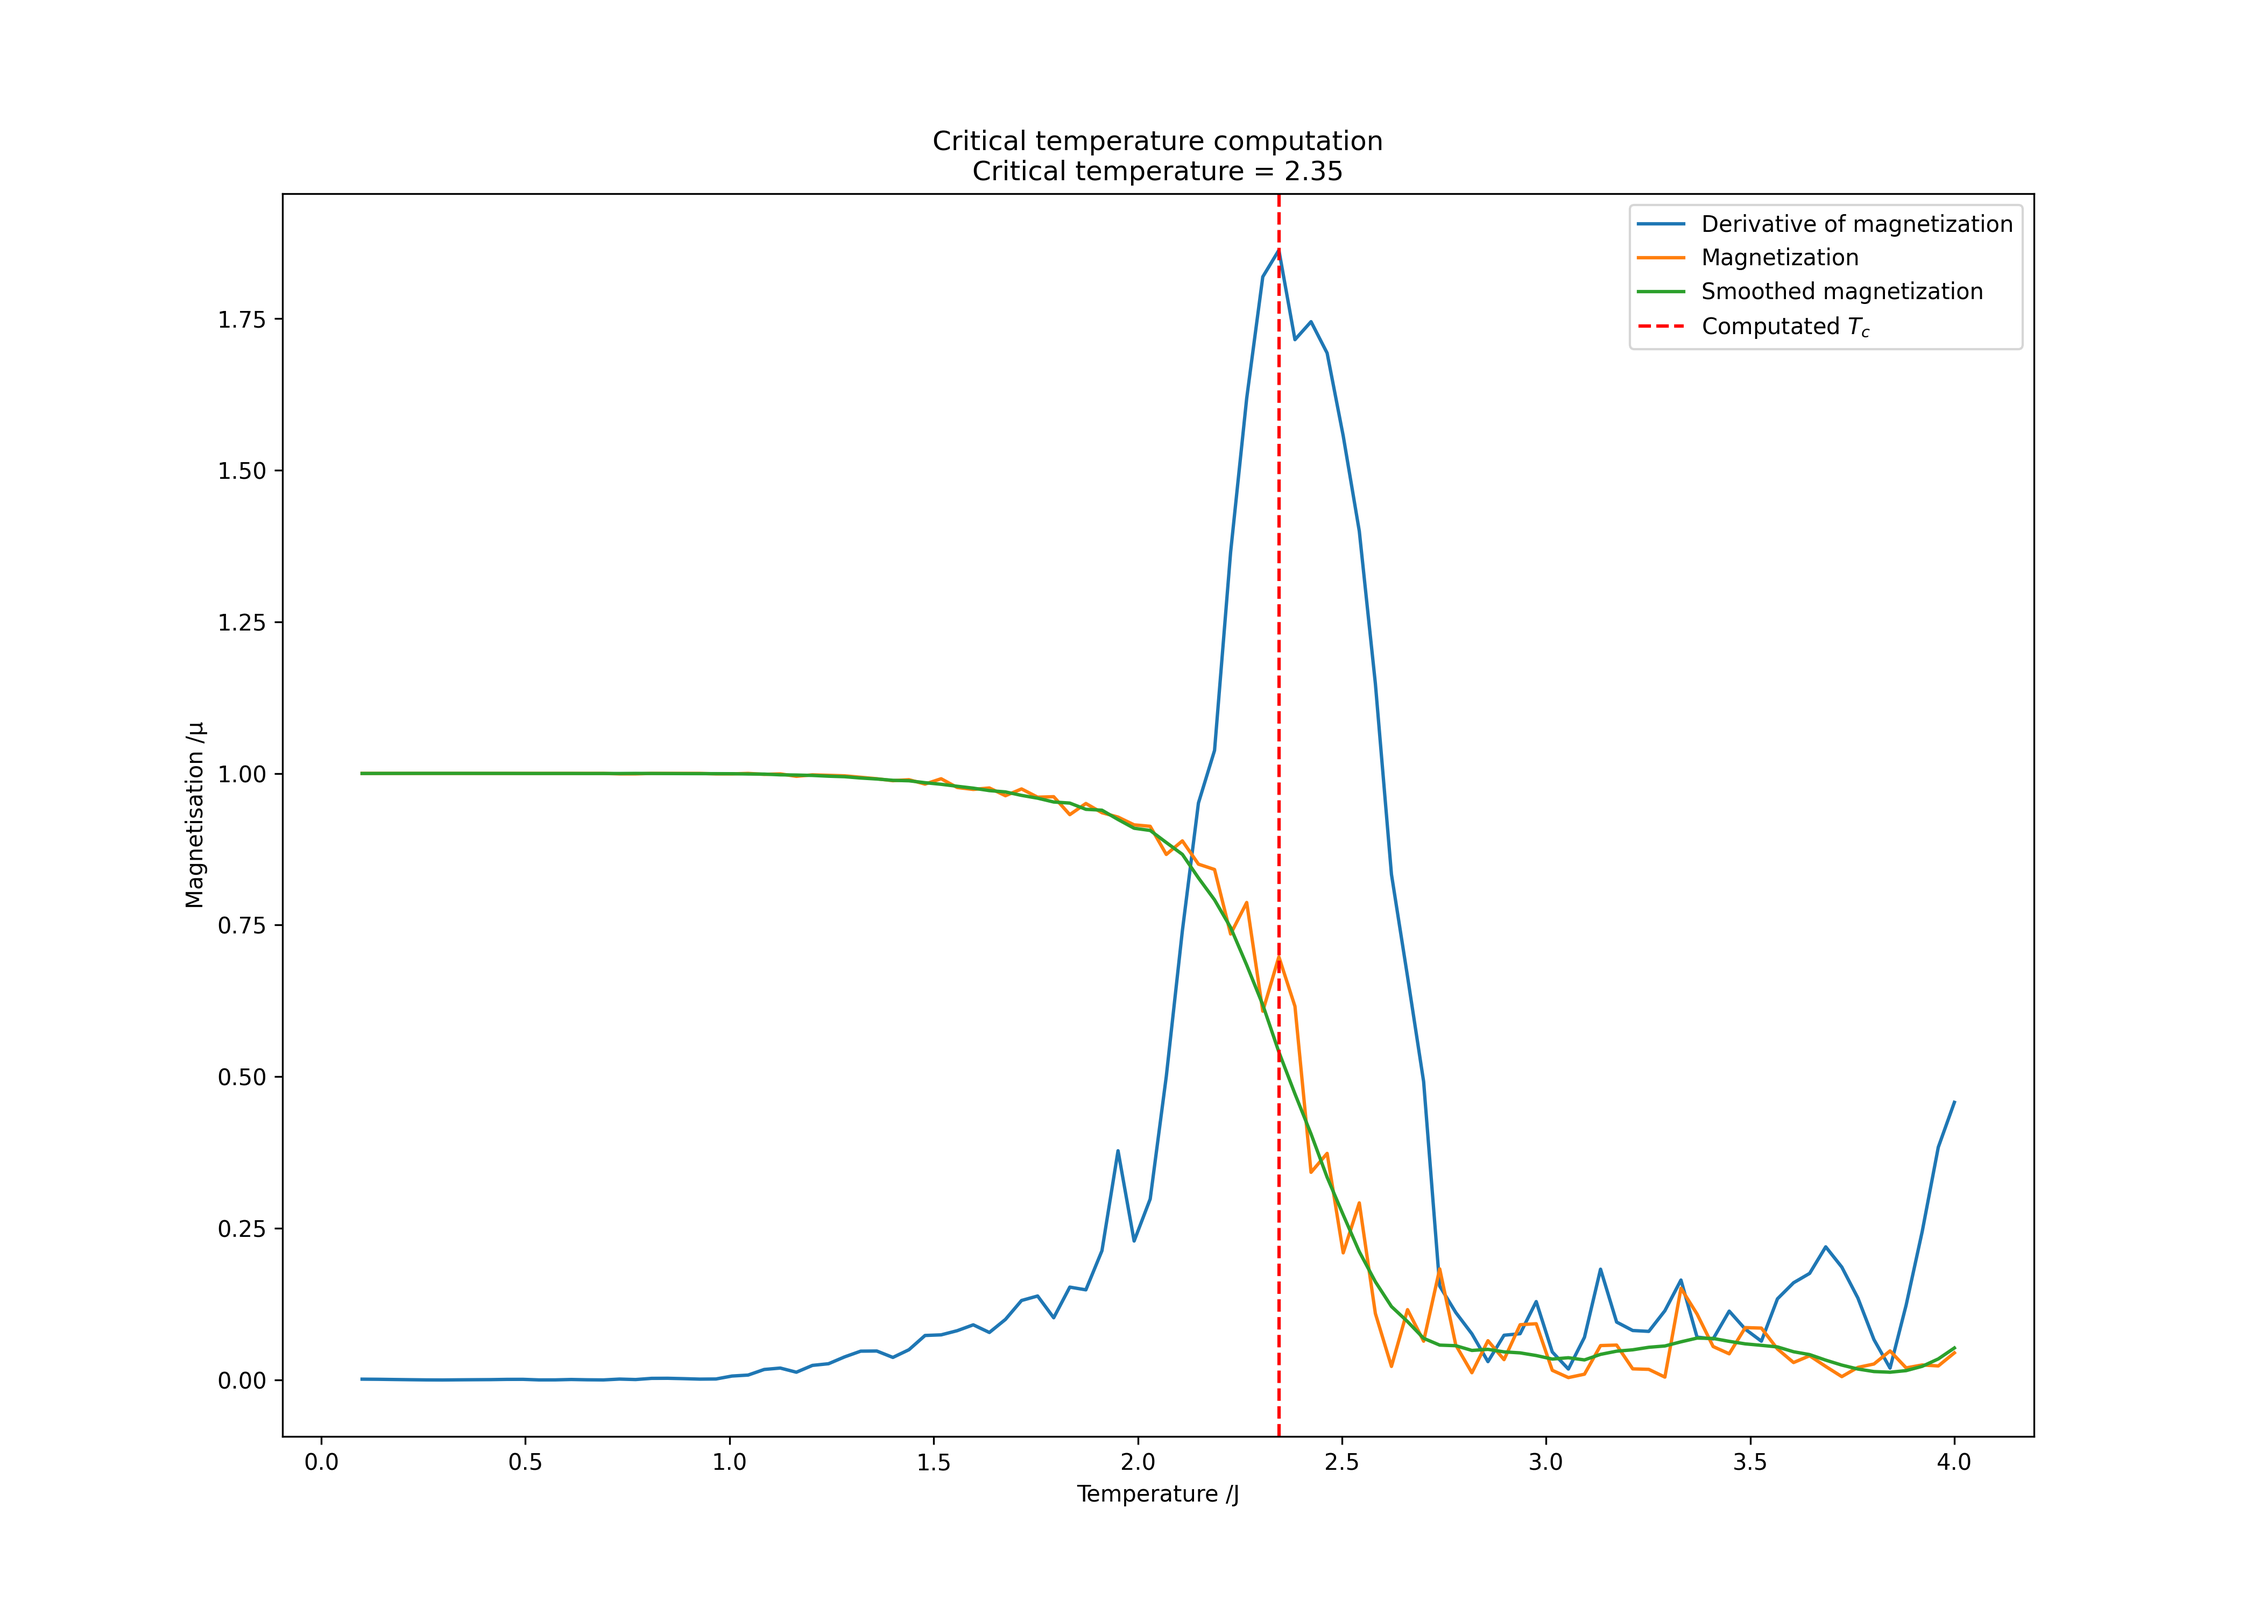
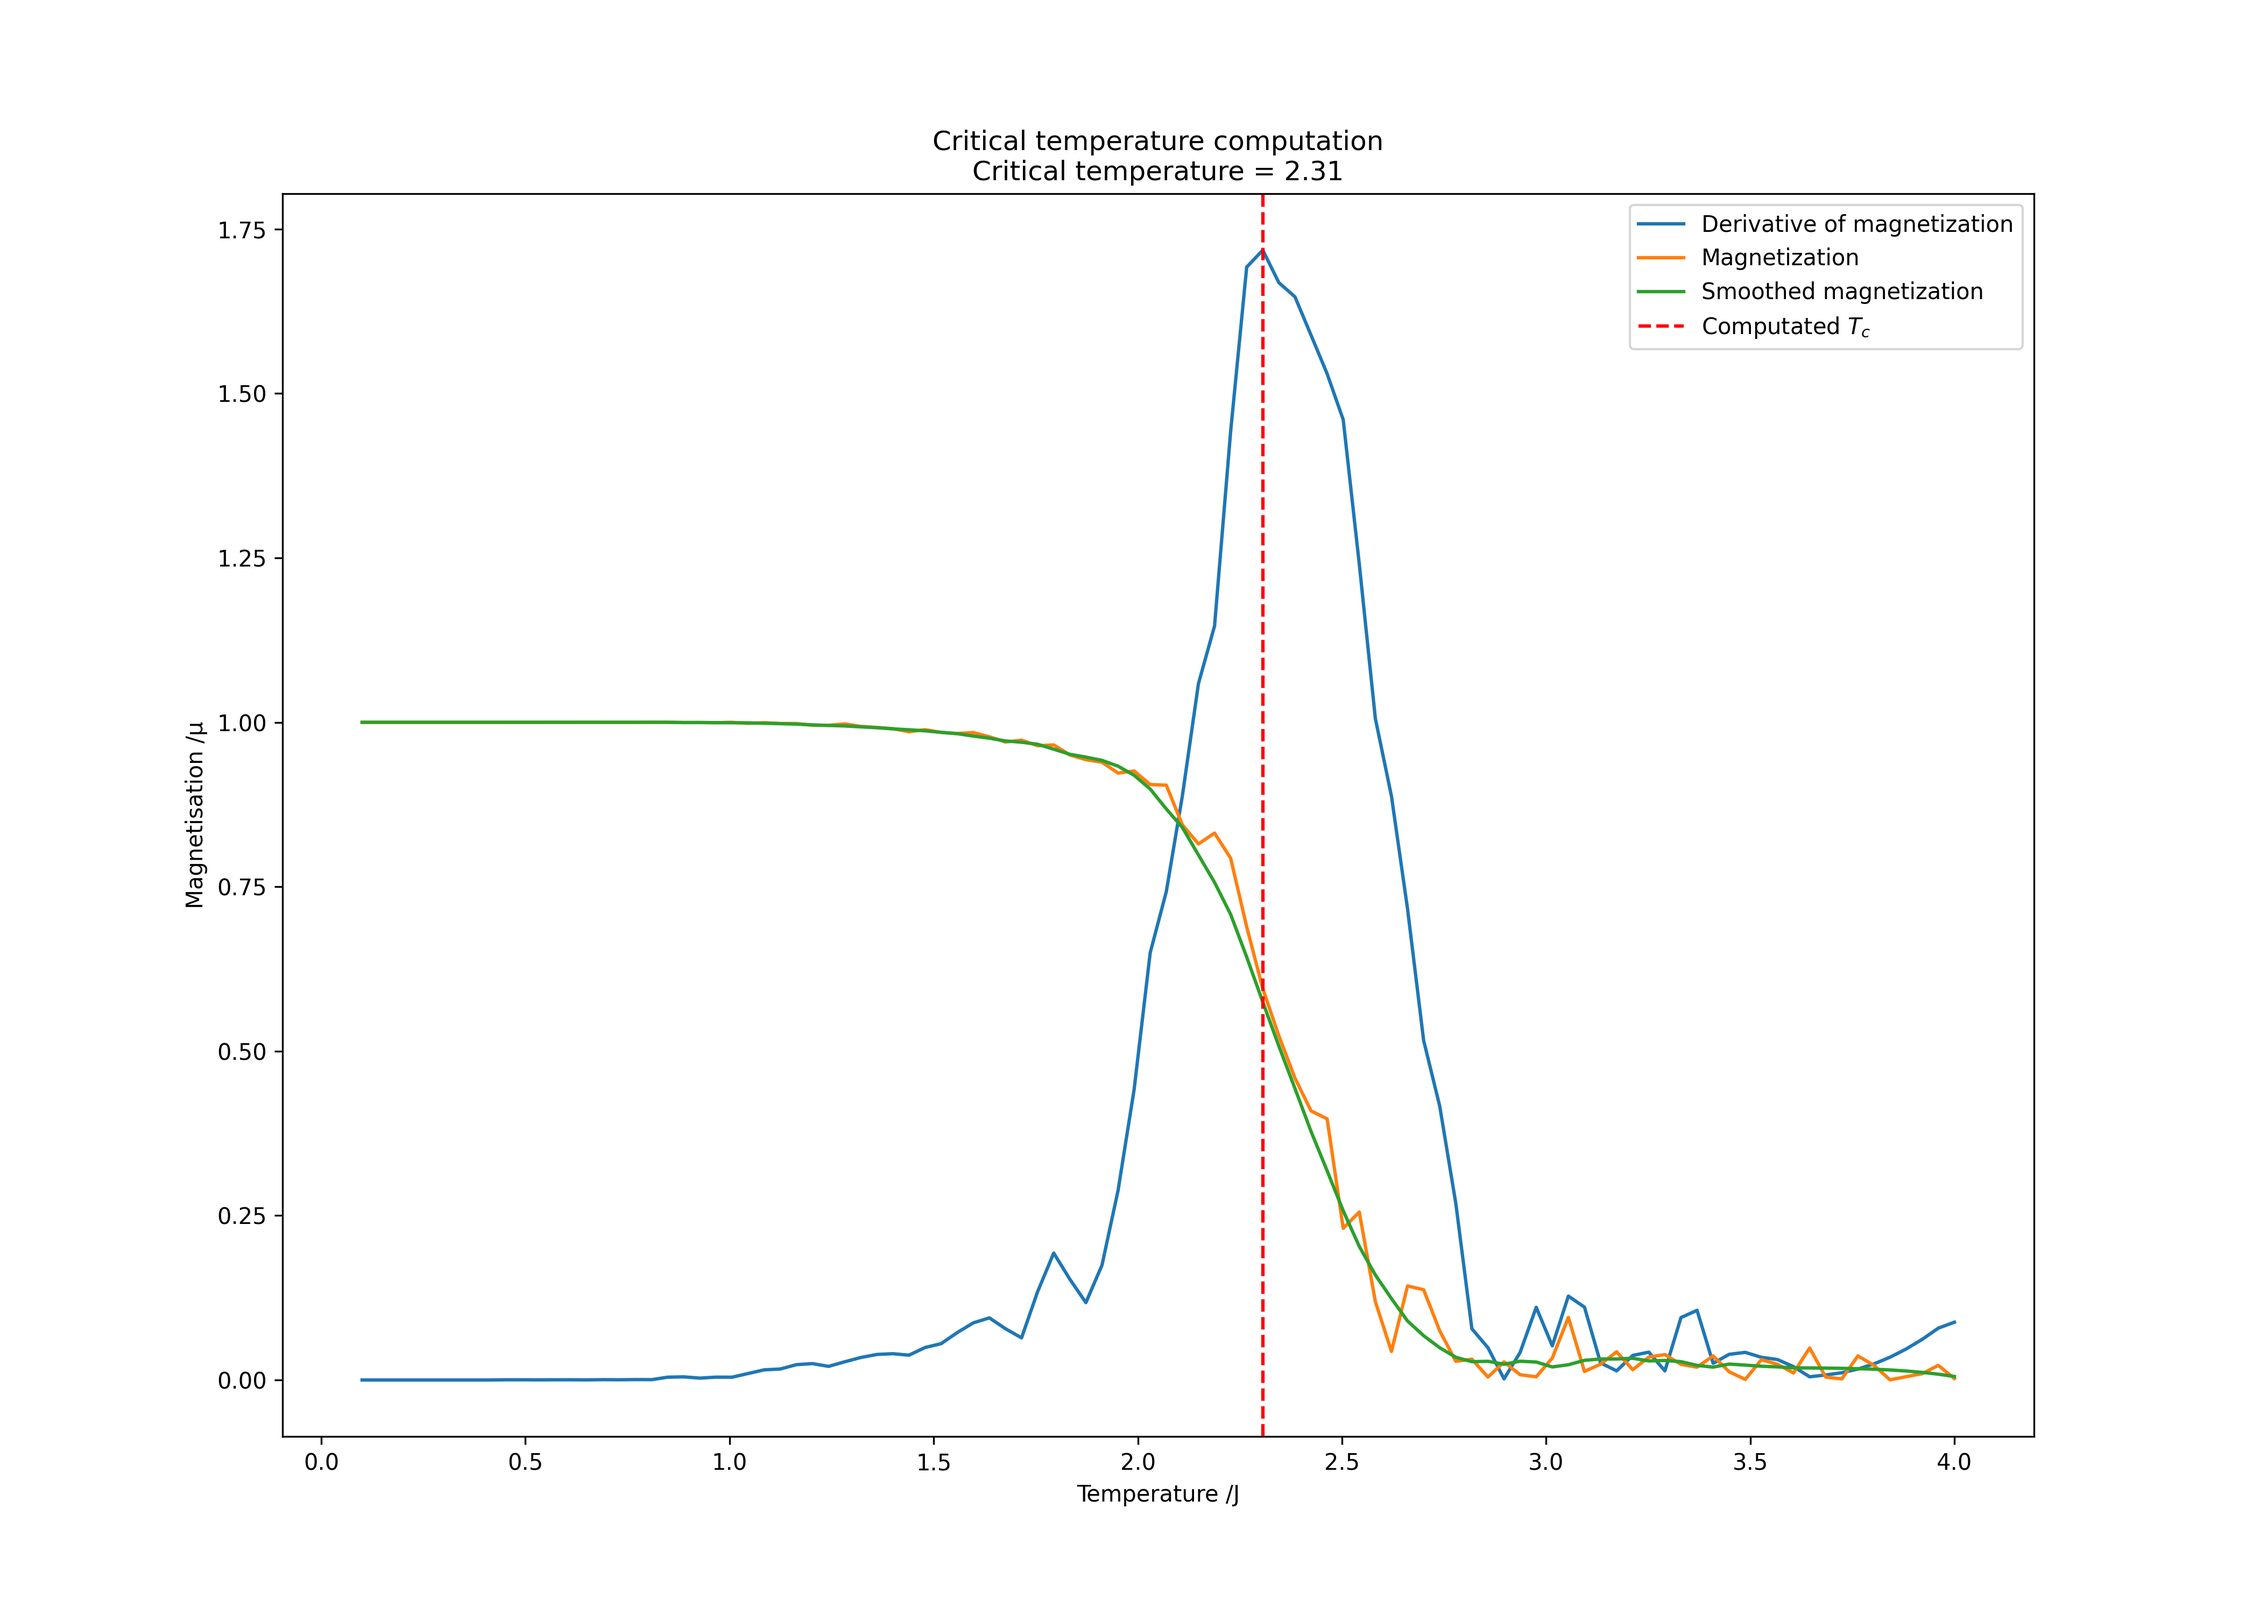
Ajout animation gif pour le modèle et plutôt bonnes données à garder

diff --git a/main.py b/main.py
@@ -13,8 +13,20 @@ import pandas as pd
 final_energy = []
 final_magnetization = []
 
+N = 100
+M = 100
+iterations = 1000000
+t_min = 0.1
+t_max = 4
+
 
 def Onsager(Tc, T):
+    """
+    Onsager solution for the magnetization
+    :param Tc: Critical temperature
+    :param T: Temperature array
+    :return: Onsager solution
+    """
     if T < Tc:
         return (1 - 1 / (np.sinh(2 / T) ** 4)) ** (1 / 8)
     else:
@@ -44,6 +56,7 @@ def run_model(N, M, temperature, iterations):
 
     return ising.get_total_energy(), ising.magnetization()
 
+
 def find_critical_temperature(temperature, magnetization):
     """
     Find the critical temperature
@@ -59,10 +72,10 @@ def find_critical_temperature(temperature, magnetization):
     plt.figure(figsize=(14, 10))
 
     plt.plot(temperature, derivative, label="Derivative of magnetization")
-    plt.plot(temperature,magnetization, label="Magnetization")
-    plt.plot(temperature,smooth_magnetization, label="Smoothed magnetization")
+    plt.plot(temperature, magnetization, label="Magnetization")
+    plt.plot(temperature, smooth_magnetization, label="Smoothed magnetization")
     critical_temperature = temperature[max_derivative_index]
-    #plot the critical temperature line
+    # plot the critical temperature line
     plt.axvline(x=critical_temperature, color='red', linestyle='--',
                 label=r'Computated $T_c$')
     plt.legend()
@@ -75,37 +88,42 @@ def find_critical_temperature(temperature, magnetization):
     return critical_temperature
 
 
-# Run the model in parallel
-
-if __name__ == "__main__":
-    # Parameters
-    number_of_simulations = 100
-    number_of_pool_processes = 10 # Number of pool processes, do not set it to more than the number of cores of your CPU
-    N = 100
-    M = 100
-    iterations = 500000
-    temperatures = np.linspace(0.1, 4, number_of_simulations)
-
-    # Run the model once for a plot of the magnetization lattice
-    # TODO
-
-    ising = IsingModel(N, M, 1, iterations)
+def create_gif(temperature, iterations):
+    """
+    Create a gif of the lattice magnetization for a given temperature
+    :param temperature: temperature
+    :param iterations: number of iterations
+    :return: None
+    """
+    print(f"------ Creating gif for T={temperature}... ------")
+    ising = IsingModel(N, M, temperature, iterations)
     ising.initialize_lattice(-1)  # To get a lattice with all 1's
-    ising.run_monte_carlo()
-    plt.figure(figsize=(14, 10))
-    plt.imshow(ising.get_lattice(), cmap='gray')
-    plt.title(f'Ising model lattice\n(Lattice : {N}x{M}, T = 2.269, {iterations} iterations)')
-    plt.savefig(f"data/lattice.png", dpi=300)
-    plt.show()
-    plt.close()
+    ising.run_monte_carlo(save_image=True)
+    print("Gif created and saved as ising.gif")
 
-    # Run the model in parallel
+
+def run_parallel_ising(N_simulation, N_pool_processes, temperatures):
+    """
+    Run the Ising model in parallel
+    :param N_simulation: Number of simulations
+    :param N_pool_processes: Number of pool processes (number of cores of your CPU)
+    :param temperatures: Temperatures array
+    :return: None
+    """
+
+    print("------ Running the model in parallel... ------")
+    print(f"Number of simulations: {N_simulation}")
 
     with Pool(number_of_pool_processes) as p:  # Run the model in parallel with a pool of processes
         # v Run the model for each temperature v
+        print("Pool of processes created")
+        start_time = time.time()
         results = p.starmap(run_model, [(N, M, temperature, iterations) for temperature in temperatures])
         final_energy, final_magnetization = zip(*results)  # Unzip the results
+        end_time = time.time()
         p.close()  # Close the pool
+        print("Pool of processes closed")
+        print(f"Time taken: {end_time - start_time:.2f} seconds")
         p.join()  # Join the pool
 
     # Normalisation
@@ -117,6 +135,20 @@ if __name__ == "__main__":
     data = pd.DataFrame({'Temperature': temperatures, 'Energy': final_energy, 'Magnetization': final_magnetization})
     data.to_csv('data/data.txt', index=False, sep='\t')
 
+    print("Data saved in data/data.txt")
+
+
+def read_data_from_file(filename):
+    """
+    Read the data from the file and plot it
+    :param filename: Filename
+    :return: None
+    """
+    data = pd.read_csv('data/data.txt', sep='\t')
+    temperatures = data['Temperature']
+    final_energy = data['Energy']
+    final_magnetization = data['Magnetization']
+
     # Find the critical temperature
 
     critical_temperature = find_critical_temperature(temperatures, final_magnetization)
@@ -126,11 +158,12 @@ if __name__ == "__main__":
     onsager = [Onsager(2.269, T) for T in temperatures]
 
     plt.figure(figsize=(14, 10))
-    plt.plot(temperatures, final_magnetization,'bo', label=rf"Simulation data (Monte Carlo)")
-    plt.plot(temperatures, onsager, 'g--',label=rf"Onsager solution (Analytical)")
+    plt.plot(temperatures, final_magnetization, 'bo', label=rf"Simulation data (Monte Carlo)")
+    plt.plot(temperatures, onsager, 'g--', label=rf"Onsager solution (Analytical)")
     # plot the critical temperature line
     plt.axvline(x=2.269, color='green', linestyle='-', label=r"Analitical $T_c = 2.269$")
-    plt.axvline(x=critical_temperature, color='blue', linestyle='-', label=rf"Computated $T_c = {critical_temperature:.2f}$")
+    plt.axvline(x=critical_temperature, color='blue', linestyle='-',
+                label=rf"Computated $T_c = {critical_temperature:.2f}$")
     plt.xlabel(rf"Temperature /J")
     plt.ylabel(rf"Magnetisation /µ")
     plt.legend()
@@ -139,3 +172,23 @@ if __name__ == "__main__":
     plt.title(f'Magnetisation vs Temperature\n(Lattice : {N}x{M}, {iterations} iterations)')
     plt.savefig(f"data/magnetization.png", dpi=300)
     plt.show()
+
+
+if __name__ == "__main__":
+    # Parameters
+    number_of_simulations = 100
+    number_of_pool_processes = 10  # Number of pool processes, do not set it to more than the number of cores of your
+    # CPU
+    temperatures = np.linspace(t_min, t_max, number_of_simulations)
+
+    # Run the model once for a gif of the magnetization lattice
+
+    create_gif(2.269, iterations)
+
+    # Run the model in parallel
+
+    # run_parallel_ising(number_of_simulations, number_of_pool_processes, temperatures)
+
+    # Read the data from the file and plot it
+
+    # read_data_from_file('data/data.txt')

diff --git a/isingModel.py b/isingModel.py
@@ -8,14 +8,16 @@ import numpy as np
 from multiprocessing import Pool
 from functools import partial
 import matplotlib.pyplot as plt
+import matplotlib.animation as animation
+from src.utils import printProgressBar
+
 # Physical constants
 
 K = 1
 J = 1  # Energy unit
 MU = 1  # Magnetic moment unit
 
-
-# Ising model class
+# Print iterations progress
 
 class IsingModel:
     """
@@ -98,10 +100,34 @@ class IsingModel:
         else:  # If the flip is not accepted, flip the spin back
             pass
 
-    def run_monte_carlo(self):
+    def run_monte_carlo(self, save_image=False):
         # TODO: Enregistrer une image toute les X itérations pour faire une vidéo (modulo itération)
+        images = []
         for i in range(self.iteration):
             self.monte_carlo_step()
+
+            # save an image to have 200 images at the end
+            if save_image and i % (self.iteration // 200) == 0:
+                images.append(np.copy(self.lattice))
+
+        if save_image: # Save the animation
+            fig, ax = plt.subplots(figsize=(10, 10))
+            ax.set_axis_off()
+
+            ims = []
+            for i in range(len(images)):
+                im = ax.imshow(images[i], cmap='gray', interpolation='nearest', animated=True, vmin=-1, vmax=1)
+                ax.set_title(rf"Ising Model Simulation ($\beta = {self.beta:.2f}$, iteration = {self.iteration})")
+                ims.append([im])
+            print("Creating animation...")
+            ani = animation.ArtistAnimation(fig, ims, interval=50, blit=True, repeat_delay=1000)
+
+            print("Saving animation...")
+            # Enregistrez l'animation au format GIF
+            ani.save('ising.gif', writer='pillow', fps=30, dpi=100)
+
+            plt.close()
+
         return self.lattice
 
 
